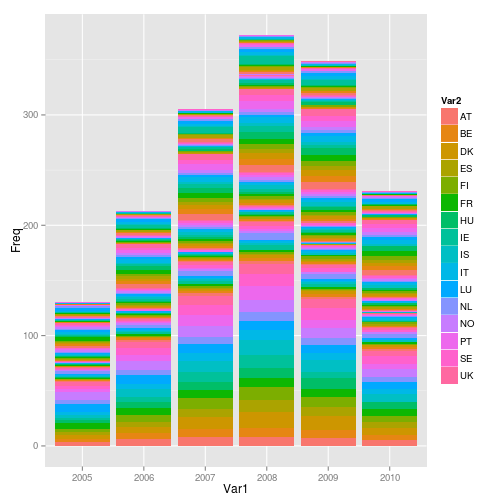
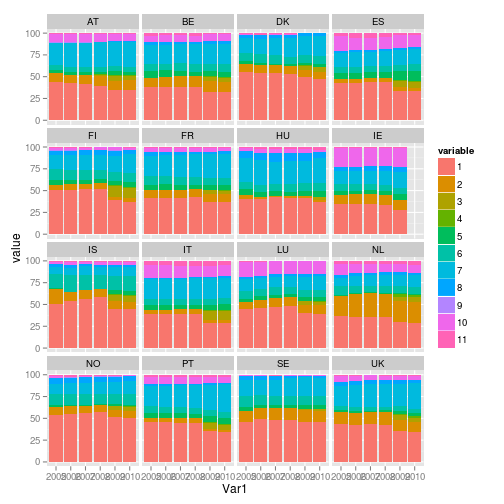
pari korjausta vielä. discrete-time data huomenna junassa

diff --git a/data_longi.html b/data_longi.html
@@ -723,10 +723,28 @@ dat.uniq$dup &lt;-<span class="st"> </span><span class="ot">NULL</span>
 dat.per &lt;-<span class="st"> </span>dat.uniq
 dat.per$RB030 &lt;-<span class="st"> </span><span class="kw">as.numeric</span>(dat.per$RB030)</code></pre>
 <h3 id="analyysejä"><span class="header-section-number">2.2.3</span> Analyysejä</h3>
-<pre class="sourceCode r"><code class="sourceCode r">tbl &lt;-<span class="st"> </span><span class="kw">as.data.frame</span>(<span class="kw">round</span>(<span class="kw">prop.table</span>(<span class="kw">table</span>(dat.per$RB010,dat.per$RB020,dat.per$econStatus),<span class="dv">2</span>),<span class="dv">4</span>)*<span class="dv">100</span>)
+<pre class="sourceCode r"><code class="sourceCode r">tbl &lt;-<span class="st"> </span><span class="kw">as.data.frame</span>(<span class="kw">table</span>(dat.per$RB010,dat.per$RB020,dat.per$econStatus))
+<span class="kw">library</span>(reshape2)
+tbl.w &lt;-<span class="st"> </span><span class="kw">dcast</span>(<span class="dt">data=</span>tbl, Var1 +<span class="st"> </span>Var2 ~<span class="st"> </span>Var3, <span class="dt">value.var=</span><span class="st">&quot;Freq&quot;</span>)
+tbl.w$sum &lt;-<span class="st"> </span><span class="kw">rowSums</span>(tbl.w[,<span class="dv">3</span>:<span class="dv">13</span>])
+tbl.w[,<span class="dv">3</span>] &lt;-<span class="st"> </span>tbl.w[,<span class="dv">3</span>]/tbl.w[,<span class="dv">14</span>]*<span class="dv">100</span>
+tbl.w[,<span class="dv">4</span>] &lt;-<span class="st"> </span>tbl.w[,<span class="dv">4</span>]/tbl.w[,<span class="dv">14</span>]*<span class="dv">100</span>
+tbl.w[,<span class="dv">5</span>] &lt;-<span class="st"> </span>tbl.w[,<span class="dv">5</span>]/tbl.w[,<span class="dv">14</span>]*<span class="dv">100</span>
+tbl.w[,<span class="dv">6</span>] &lt;-<span class="st"> </span>tbl.w[,<span class="dv">6</span>]/tbl.w[,<span class="dv">14</span>]*<span class="dv">100</span>
+tbl.w[,<span class="dv">7</span>] &lt;-<span class="st"> </span>tbl.w[,<span class="dv">7</span>]/tbl.w[,<span class="dv">14</span>]*<span class="dv">100</span>
+tbl.w[,<span class="dv">8</span>] &lt;-<span class="st"> </span>tbl.w[,<span class="dv">8</span>]/tbl.w[,<span class="dv">14</span>]*<span class="dv">100</span>
+tbl.w[,<span class="dv">9</span>] &lt;-<span class="st"> </span>tbl.w[,<span class="dv">9</span>]/tbl.w[,<span class="dv">14</span>]*<span class="dv">100</span>
+tbl.w[,<span class="dv">10</span>] &lt;-<span class="st"> </span>tbl.w[,<span class="dv">10</span>]/tbl.w[,<span class="dv">14</span>]*<span class="dv">100</span>
+tbl.w[,<span class="dv">11</span>] &lt;-<span class="st"> </span>tbl.w[,<span class="dv">11</span>]/tbl.w[,<span class="dv">14</span>]*<span class="dv">100</span>
+tbl.w[,<span class="dv">12</span>] &lt;-<span class="st"> </span>tbl.w[,<span class="dv">12</span>]/tbl.w[,<span class="dv">14</span>]*<span class="dv">100</span>
+tbl.w[,<span class="dv">13</span>] &lt;-<span class="st"> </span>tbl.w[,<span class="dv">13</span>]/tbl.w[,<span class="dv">14</span>]*<span class="dv">100</span>
+tbl.w$sum &lt;-<span class="st"> </span><span class="ot">NULL</span>
+tbl &lt;-<span class="st"> </span><span class="kw">melt</span>(tbl.w, <span class="dt">id.vars=</span><span class="kw">c</span>(<span class="st">&quot;Var1&quot;</span>,<span class="st">&quot;Var2&quot;</span>))
+
 <span class="kw">library</span>(ggplot2)
-<span class="kw">ggplot</span>(tbl, <span class="kw">aes</span>(<span class="dt">x=</span>Var1,<span class="dt">y=</span>Freq,<span class="dt">fill=</span>Var2)) +
-<span class="st">  </span><span class="kw">geom_bar</span>(<span class="dt">stat=</span><span class="st">&quot;identity&quot;</span>)</code></pre>
+<span class="kw">ggplot</span>(tbl, <span class="kw">aes</span>(<span class="dt">x=</span>Var1,<span class="dt">y=</span>value,<span class="dt">fill=</span>variable)) +
+<span class="st">  </span><span class="kw">geom_bar</span>(<span class="dt">stat=</span><span class="st">&quot;identity&quot;</span>) +
+<span class="st">  </span><span class="kw">facet_wrap</span>(~Var2)</code></pre>
 <div class="figure">
 <img src="figure/plot1.png" alt="plot of chunk plot1" /><p class="caption">plot of chunk plot1</p>
 </div>

diff --git a/data_longi.md b/data_longi.md
@@ -372,14 +372,31 @@ dat.per$RB030 <- as.numeric(dat.per$RB030)
 
 
 ```r
-tbl <- as.data.frame(round(prop.table(table(dat.per$RB010,dat.per$RB020,dat.per$econStatus),2),4)*100)
+tbl <- as.data.frame(table(dat.per$RB010,dat.per$RB020,dat.per$econStatus))
+library(reshape2)
+tbl.w <- dcast(data=tbl, Var1 + Var2 ~ Var3, value.var="Freq")
+tbl.w$sum <- rowSums(tbl.w[,3:13])
+tbl.w[,3] <- tbl.w[,3]/tbl.w[,14]*100
+tbl.w[,4] <- tbl.w[,4]/tbl.w[,14]*100
+tbl.w[,5] <- tbl.w[,5]/tbl.w[,14]*100
+tbl.w[,6] <- tbl.w[,6]/tbl.w[,14]*100
+tbl.w[,7] <- tbl.w[,7]/tbl.w[,14]*100
+tbl.w[,8] <- tbl.w[,8]/tbl.w[,14]*100
+tbl.w[,9] <- tbl.w[,9]/tbl.w[,14]*100
+tbl.w[,10] <- tbl.w[,10]/tbl.w[,14]*100
+tbl.w[,11] <- tbl.w[,11]/tbl.w[,14]*100
+tbl.w[,12] <- tbl.w[,12]/tbl.w[,14]*100
+tbl.w[,13] <- tbl.w[,13]/tbl.w[,14]*100
+tbl.w$sum <- NULL
+tbl <- melt(tbl.w, id.vars=c("Var1","Var2"))
+
 library(ggplot2)
-ggplot(tbl, aes(x=Var1,y=Freq,fill=Var2)) +
-  geom_bar(stat="identity")
+ggplot(tbl, aes(x=Var1,y=value,fill=variable)) +
+  geom_bar(stat="identity") +
+  facet_wrap(~Var2)
 ```
 
 ![plot of chunk plot1](figure/plot1.png) 
-
 
 
 
